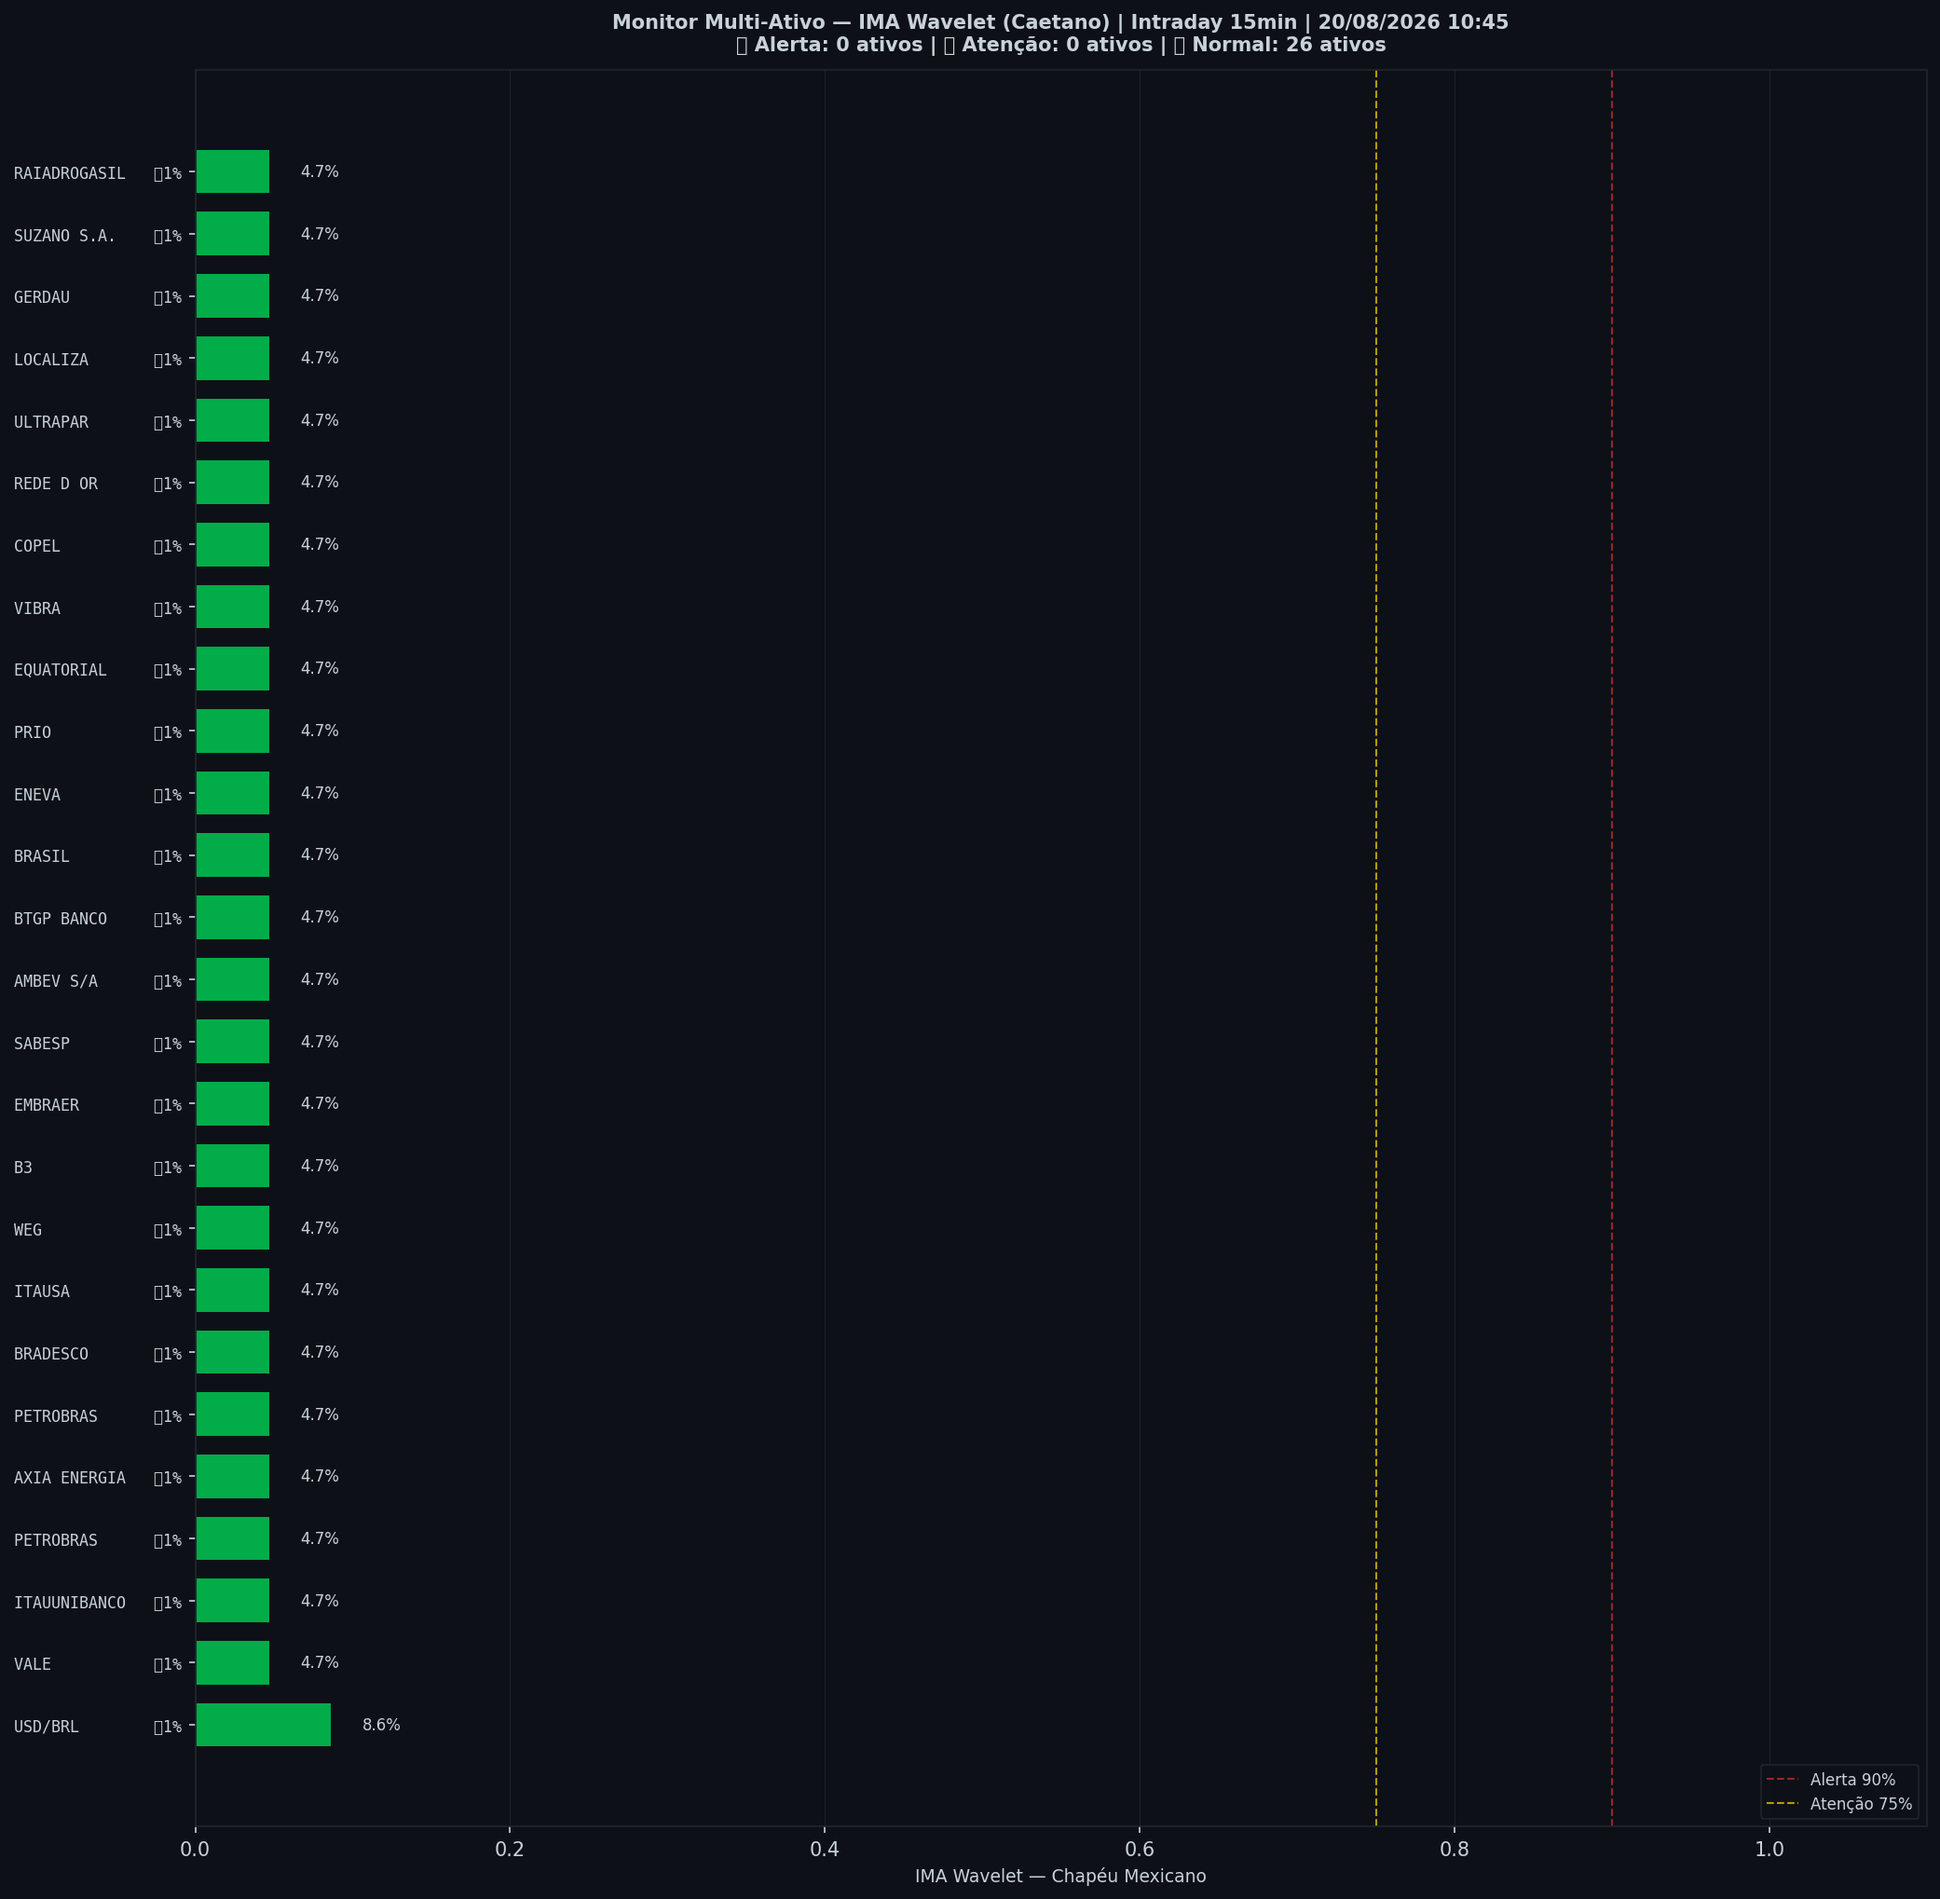
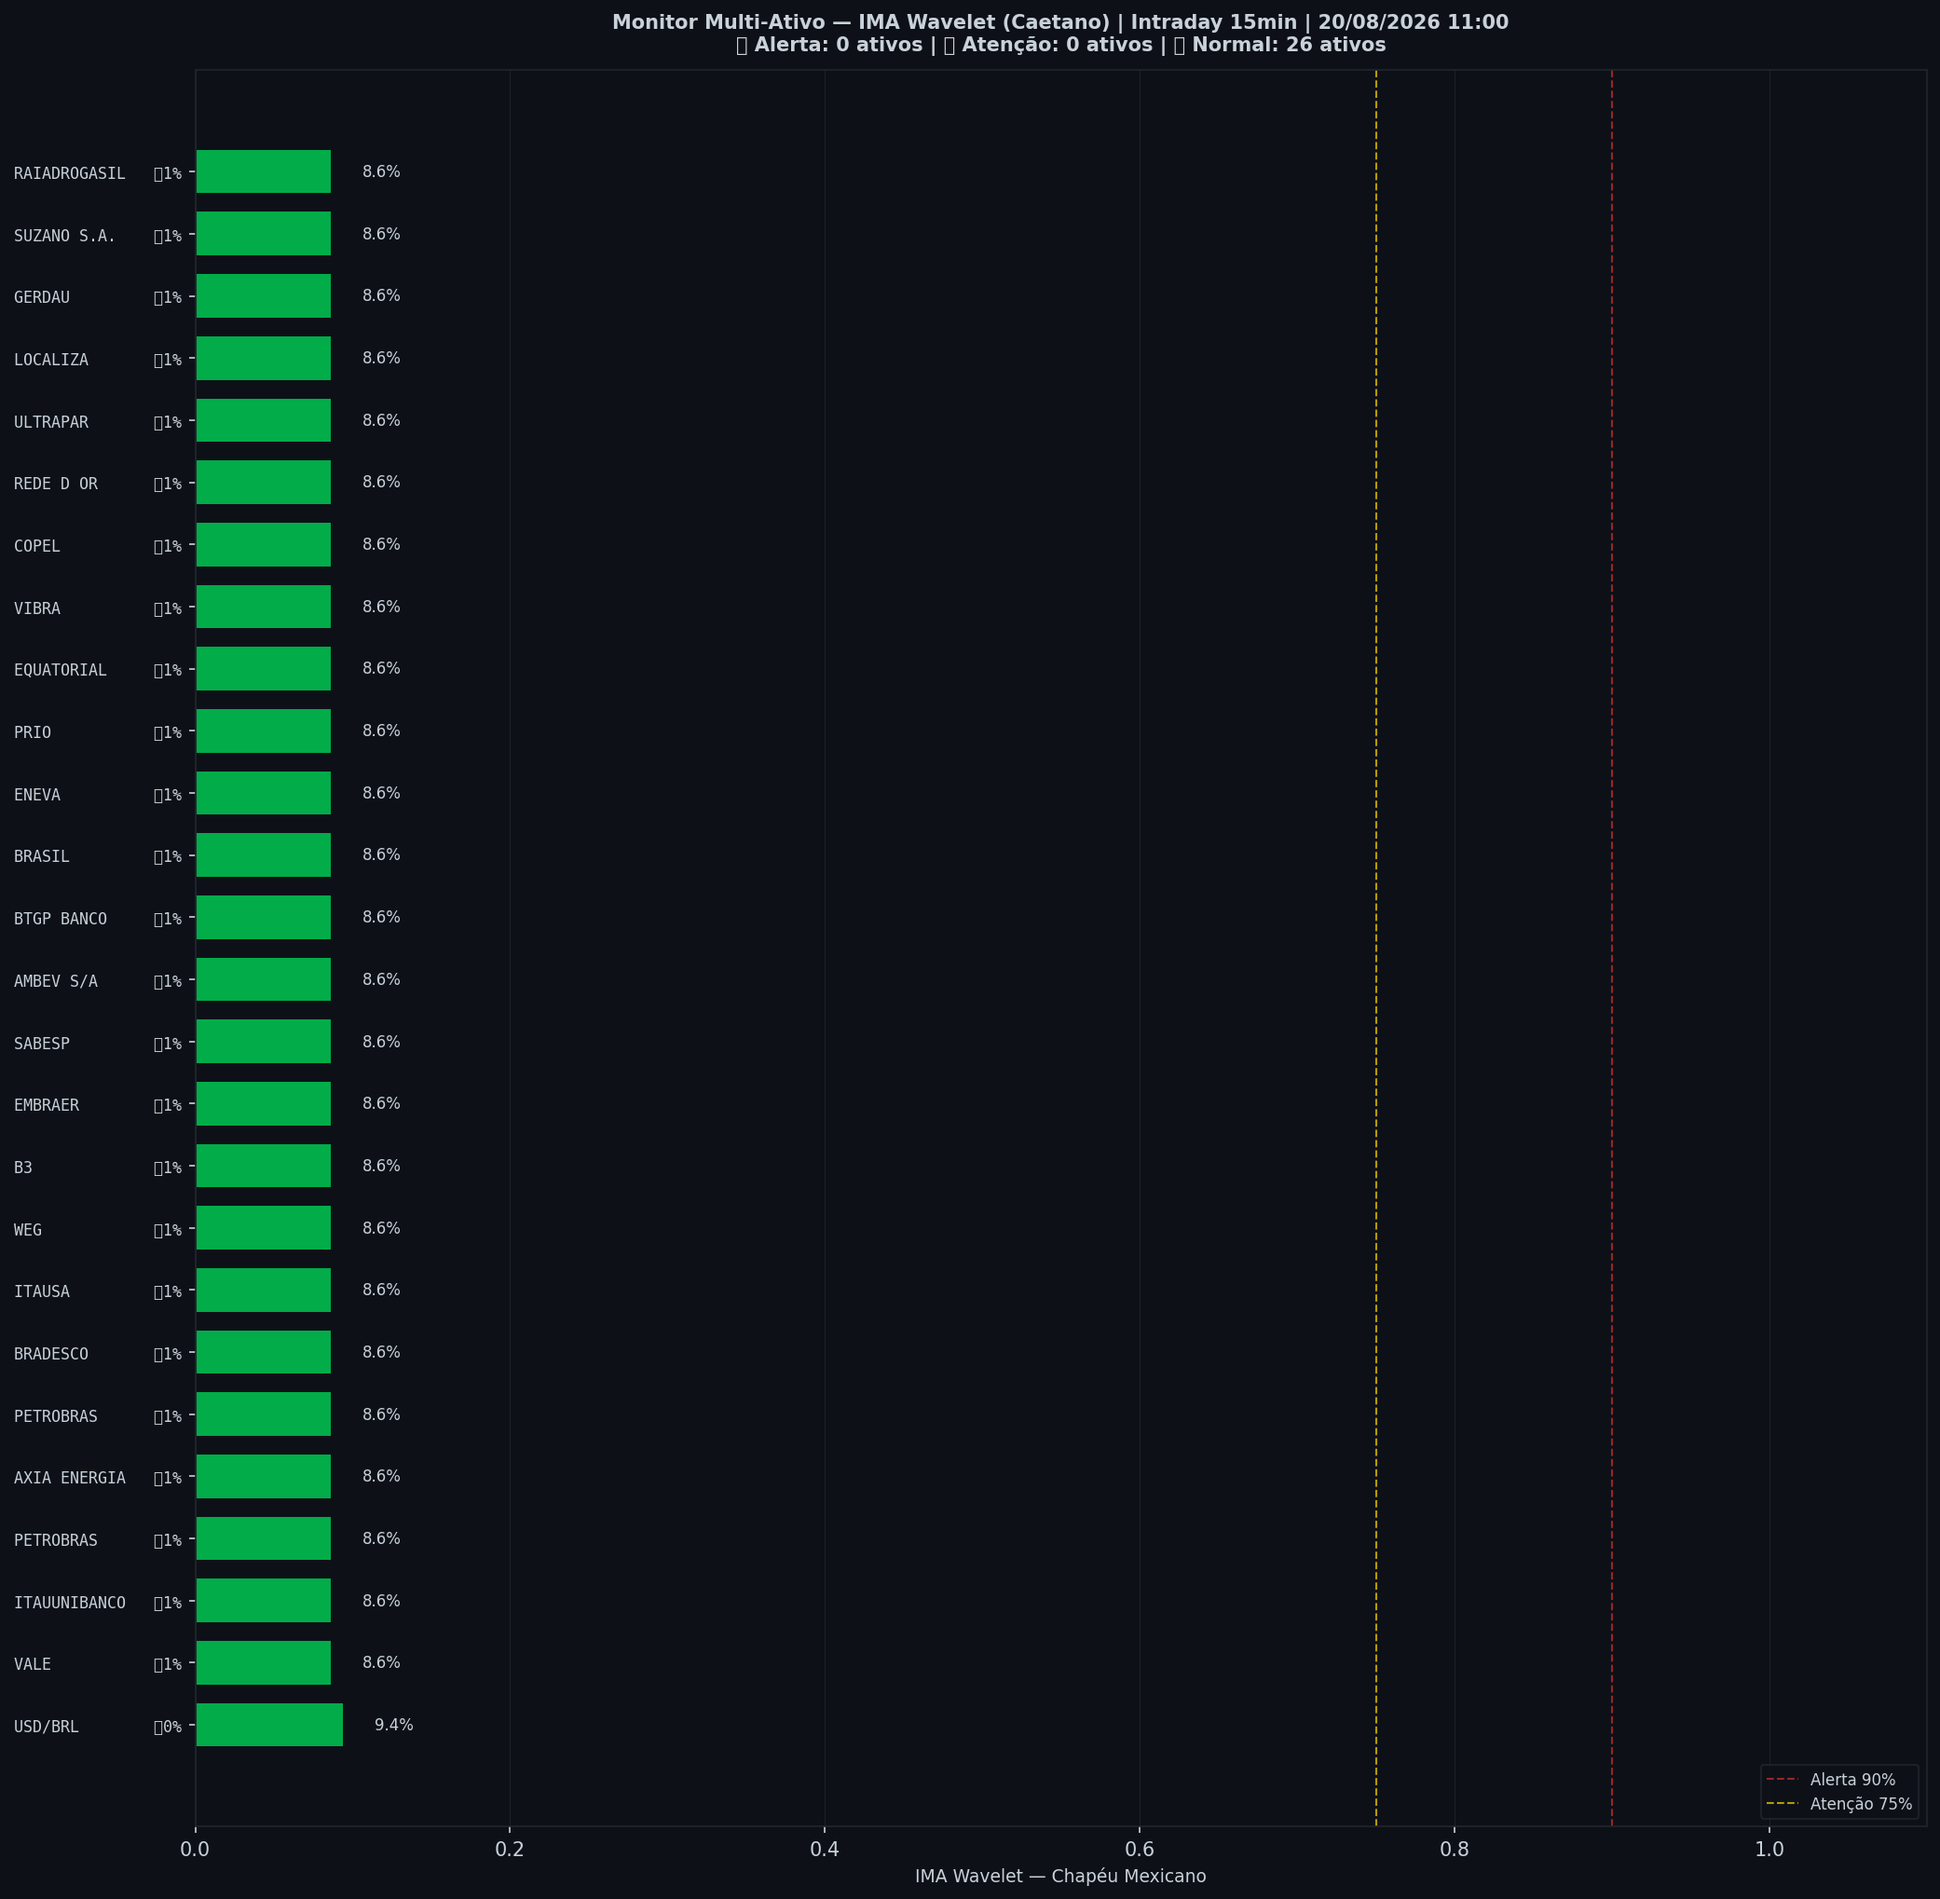
🤖 Auto: Sinal 20/08/2026 11:00

Changed region(s): [[0.1249, 0.0618, 0.1873, 0.9274]]

diff --git a/content/intraday/2026-08-20.md b/content/intraday/2026-08-20.md
@@ -1,10 +1,10 @@
 ---
-title: "🟢 Intraday 20/08/2026 10:00 BRT — VERDE"
+title: "🟢 Intraday 20/08/2026 10:15 BRT — VERDE"
 date: 2026-08-20
 tags: [intraday]
 ---
 
-> [!success] 🟢 **VERDE** — Risco 2% · ▼ -1 p.p. vs leitura anterior
+> [!success] 🟢 **VERDE** — Risco 2% · ＝ +0 p.p. vs leitura anterior
 > `░░░░░░░░░░░░░░░░░░░░`
 > Mercado sem sinais relevantes de estresse.
 
@@ -12,9 +12,9 @@ tags: [intraday]
 | Indicador | Valor |
 |---|---|
 | 🔴 ζ Crash — severidade da queda em curso | **2%** |
-| 🔵 ζ Entrada — estrutura de fundo | 1% |
+| 🔵 ζ Entrada — estrutura de fundo | 3% |
 | 🫧 LPPL DS-Confidence | 0% |
-| 📊 Ibovespa | 167.143 pts |
+| 📊 Ibovespa | 167.406 pts |
 
 ![Gráfico do sinal](../graficos/sinal_intraday.png)
 
@@ -22,6 +22,7 @@ tags: [intraday]
 
 | Data | Zona | Risco | IMA Crash | Entrada | LPPL |
 |---|---|---|---|---|---|
+| 2026-08-20 10:15 | 🟢 VERDE | **2%** | 2% | 3% | 0% |
 | 2026-08-20 10:00 | 🟢 VERDE | **2%** | 2% | 1% | 0% |
 | 2026-08-19 16:45 | 🟢 VERDE | **2%** | 2% | 1% | 0% |
 | 2026-08-19 16:30 | 🟢 VERDE | **14%** | 14% | 1% | 0% |
@@ -51,7 +52,6 @@ tags: [intraday]
 | 2026-08-19 10:30 | 🟢 VERDE | **38%** | 38% | 2% | 0% |
 | 2026-08-19 10:15 | 🟢 VERDE | **25%** | 25% | 2% | 0% |
 | 2026-08-19 10:00 | 🟢 VERDE | **14%** | 14% | 4% | 0% |
-| 2026-08-18 16:45 | 🟢 VERDE | **10%** | 10% | 2% | 0% |
 
 ## Monitor Multi-Ativo
 
@@ -59,36 +59,36 @@ tags: [intraday]
 
 | Zona | Ativo | Setor | IMA Crash | IMA Entrada |
 |---|---|---|---|---|
-| 🟢 | **USD/BRL** | Câmbio | 8.6% | 0.8% |
-| 🟢 | **VALE** | Mineração | 4.7% | 0.8% |
-| 🟢 | **ITAUUNIBANCO** | Financeiro | 4.7% | 0.8% |
-| 🟢 | **PETROBRAS** | Petróleo | 4.7% | 0.8% |
-| 🟢 | **AXIA ENERGIA** | Energia | 4.7% | 0.8% |
-| 🟢 | **PETROBRAS** | Petróleo | 4.7% | 0.8% |
-| 🟢 | **BRADESCO** | Financeiro | 4.7% | 0.8% |
-| 🟢 | **ITAUSA** | Financeiro | 4.7% | 0.8% |
-| 🟢 | **WEG** | Industrial | 4.7% | 0.8% |
-| 🟢 | **B3** | Financeiro | 4.7% | 0.8% |
-| 🟢 | **EMBRAER** | Outros | 4.7% | 0.8% |
-| 🟢 | **SABESP** | Saneamento | 4.7% | 0.8% |
-| 🟢 | **AMBEV S/A** | Consumo | 4.7% | 0.8% |
-| 🟢 | **BTGP BANCO** | Financeiro | 4.7% | 0.8% |
-| 🟢 | **BRASIL** | Financeiro | 4.7% | 0.8% |
-| 🟢 | **ENEVA** | Energia | 4.7% | 0.8% |
-| 🟢 | **PRIO** | Petróleo | 4.7% | 0.8% |
-| 🟢 | **EQUATORIAL** | Energia | 4.7% | 0.8% |
-| 🟢 | **VIBRA** | Energia | 4.7% | 0.8% |
-| 🟢 | **COPEL** | Energia | 4.7% | 0.8% |
-| 🟢 | **REDE D OR** | Saúde | 4.7% | 0.8% |
-| 🟢 | **ULTRAPAR** | Outros | 4.7% | 0.8% |
-| 🟢 | **LOCALIZA** | Aluguel | 4.7% | 0.8% |
-| 🟢 | **GERDAU** | Siderurgia | 4.7% | 0.8% |
-| 🟢 | **SUZANO S.A.** | Papel/Celulose | 4.7% | 0.8% |
-| 🟢 | **RAIADROGASIL** | Outros | 4.7% | 0.8% |
+| 🟢 | **USD/BRL** | Câmbio | 9.4% | 0.0% |
+| 🟢 | **VALE** | Mineração | 8.6% | 0.8% |
+| 🟢 | **ITAUUNIBANCO** | Financeiro | 8.6% | 0.8% |
+| 🟢 | **PETROBRAS** | Petróleo | 8.6% | 0.8% |
+| 🟢 | **AXIA ENERGIA** | Energia | 8.6% | 0.8% |
+| 🟢 | **PETROBRAS** | Petróleo | 8.6% | 0.8% |
+| 🟢 | **BRADESCO** | Financeiro | 8.6% | 0.8% |
+| 🟢 | **ITAUSA** | Financeiro | 8.6% | 0.8% |
+| 🟢 | **WEG** | Industrial | 8.6% | 0.8% |
+| 🟢 | **B3** | Financeiro | 8.6% | 0.8% |
+| 🟢 | **EMBRAER** | Outros | 8.6% | 0.8% |
+| 🟢 | **SABESP** | Saneamento | 8.6% | 0.8% |
+| 🟢 | **AMBEV S/A** | Consumo | 8.6% | 0.8% |
+| 🟢 | **BTGP BANCO** | Financeiro | 8.6% | 0.8% |
+| 🟢 | **BRASIL** | Financeiro | 8.6% | 0.8% |
+| 🟢 | **ENEVA** | Energia | 8.6% | 0.8% |
+| 🟢 | **PRIO** | Petróleo | 8.6% | 0.8% |
+| 🟢 | **EQUATORIAL** | Energia | 8.6% | 0.8% |
+| 🟢 | **VIBRA** | Energia | 8.6% | 0.8% |
+| 🟢 | **COPEL** | Energia | 8.6% | 0.8% |
+| 🟢 | **REDE D OR** | Saúde | 8.6% | 0.8% |
+| 🟢 | **ULTRAPAR** | Outros | 8.6% | 0.8% |
+| 🟢 | **LOCALIZA** | Aluguel | 8.6% | 0.8% |
+| 🟢 | **GERDAU** | Siderurgia | 8.6% | 0.8% |
+| 🟢 | **SUZANO S.A.** | Papel/Celulose | 8.6% | 0.8% |
+| 🟢 | **RAIADROGASIL** | Outros | 8.6% | 0.8% |
 
 ![Monitor multi-ativo](../graficos/multi_intraday.png)
 
-*Página atualizada em 20/08/2026 10:45 BRT (leitura da barra de 2026-08-20 10:00 BRT).*
+*Página atualizada em 20/08/2026 11:00 BRT (leitura da barra de 2026-08-20 10:15 BRT).*
 
 > [!info]- Como interpretar (clique para expandir)
 > - **ζ Crash**: fração dos coeficientes wavelet acima do corte (Caetano & Yoneyama 2009). Escala absoluta: ζ=0,90 = 90% dos coeficientes anômalos — historicamente, quedas com ζ≥0,90 foram mais fundas e mais longas. **Mede a severidade do movimento em curso, não prevê o início da queda.**

diff --git a/content/index.md b/content/index.md
@@ -8,9 +8,9 @@ tags: [home]
 
 Monitoramento diário e intraday do Ibovespa — **IMA Wavelet** (Prof. Marco Antonio Leonel Caetano, ITA/INSPER) + **LPPL DS-Confidence** (Prof. Didier Sornette, ETH-Zurich).
 
-*Última atualização: 20/08/2026 10:45 BRT · ^BVSP · Intraday 15min · v4*
+*Última atualização: 20/08/2026 11:00 BRT · ^BVSP · Intraday 15min · v4*
 
-> [!success] 🟢 **VERDE** — Risco 2% · ▼ -1 p.p. vs leitura anterior
+> [!success] 🟢 **VERDE** — Risco 2% · ＝ +0 p.p. vs leitura anterior
 > `░░░░░░░░░░░░░░░░░░░░`
 > Mercado sem sinais relevantes de estresse.
 
@@ -18,9 +18,9 @@ Monitoramento diário e intraday do Ibovespa — **IMA Wavelet** (Prof. Marco An
 | Indicador | Valor |
 |---|---|
 | 🔴 ζ Crash — severidade da queda em curso | **2%** |
-| 🔵 ζ Entrada — estrutura de fundo | 1% |
+| 🔵 ζ Entrada — estrutura de fundo | 3% |
 | 🫧 LPPL DS-Confidence | 0% |
-| 📊 Ibovespa | 167.143 pts |
+| 📊 Ibovespa | 167.406 pts |
 
 **Multi-ativo:** 0% em tensão (0🔴 0🟡 de 26 ativos)
 
@@ -34,7 +34,6 @@ Monitoramento diário e intraday do Ibovespa — **IMA Wavelet** (Prof. Marco An
 |---|---|---|---|---|
 | [20 Aug 2026](diario/2026-08-20) | 🟢 VERDE | **2%** | 2% | 0% |
 | [19 Aug 2026](diario/2026-08-19) | 🟢 VERDE | **2%** | 2% | 0% |
-| [18 Aug 2026](diario/2026-08-18) | 🟢 VERDE | **10%** | 10% | 0% |
 
 ## Navegação
 

diff --git a/content/historico.md b/content/historico.md
@@ -7,6 +7,7 @@ tags: [historico]
 
 | Data | Modo | Zona | Risco | IMA | LPPL |
 |---|---|---|---|---|---|
+| 2026-08-20 10:15 | intraday | 🟢 VERDE | 2% | 2% | 0% |
 | 2026-08-20 10:00 | intraday | 🟢 VERDE | 2% | 2% | 0% |
 | 2026-08-18 | diario | 🟢 VERDE | 0% | 0% | 0% |
 | 2026-08-19 16:45 | intraday | 🟢 VERDE | 2% | 2% | 0% |
